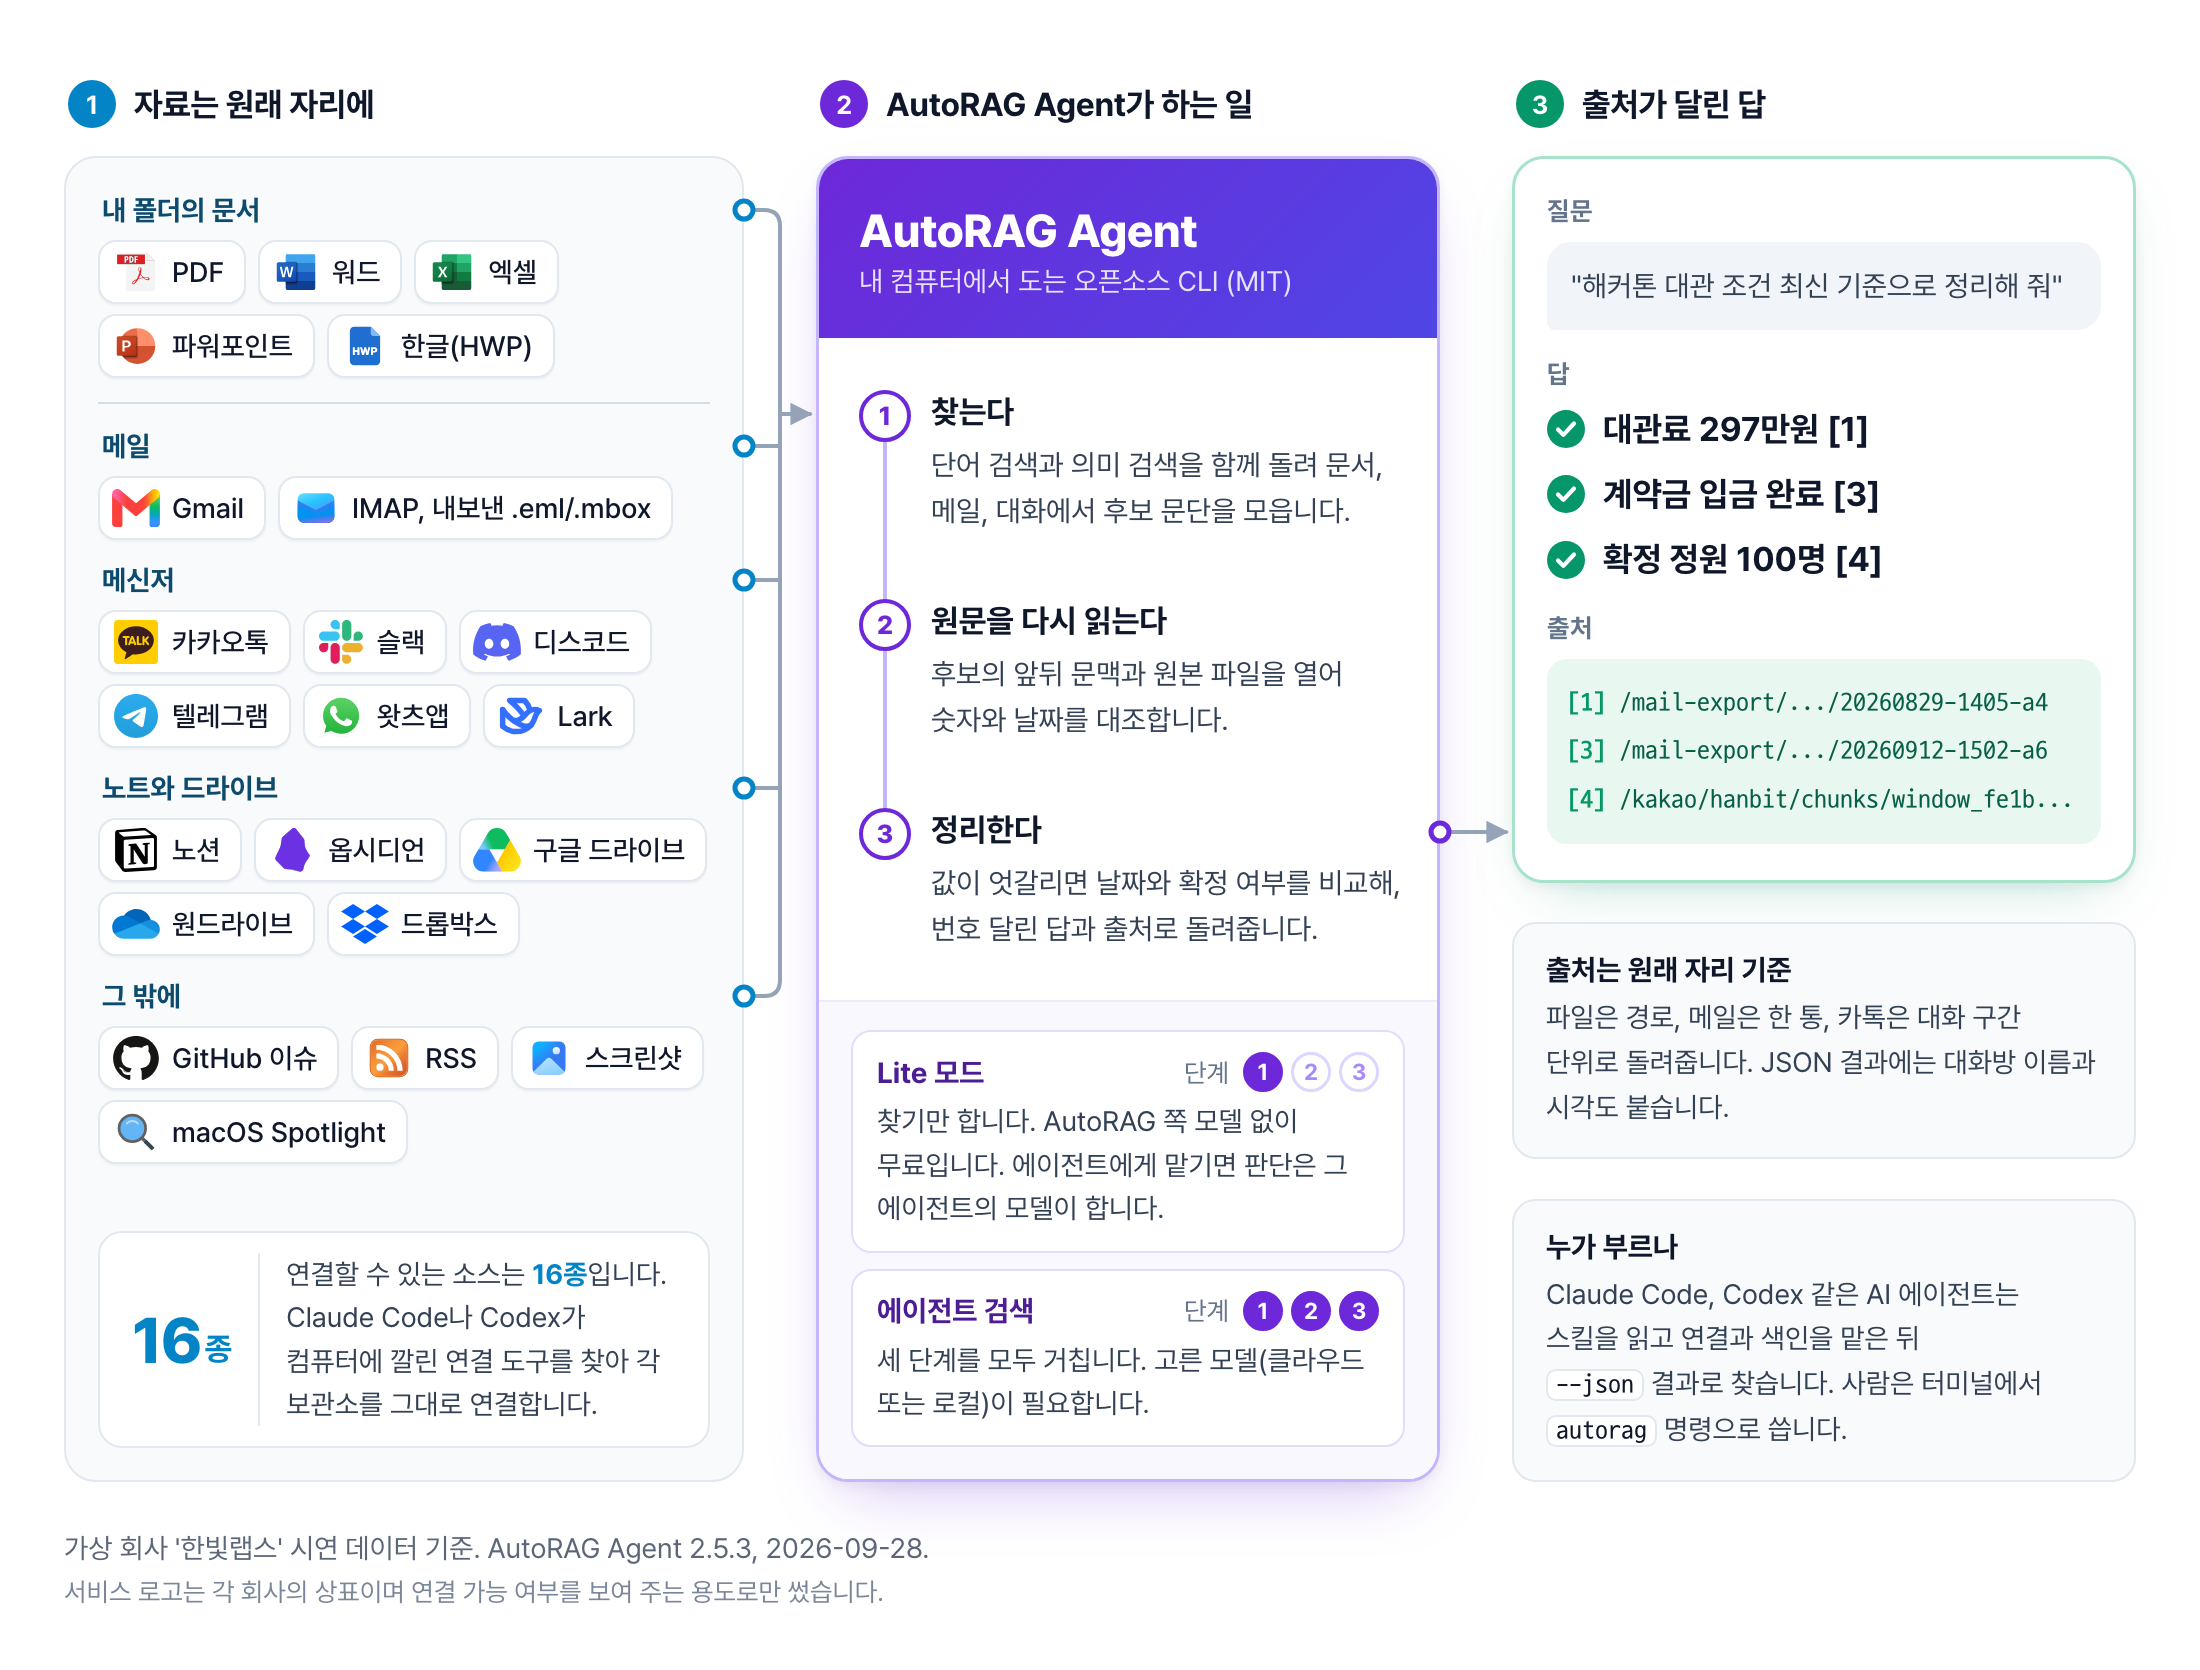
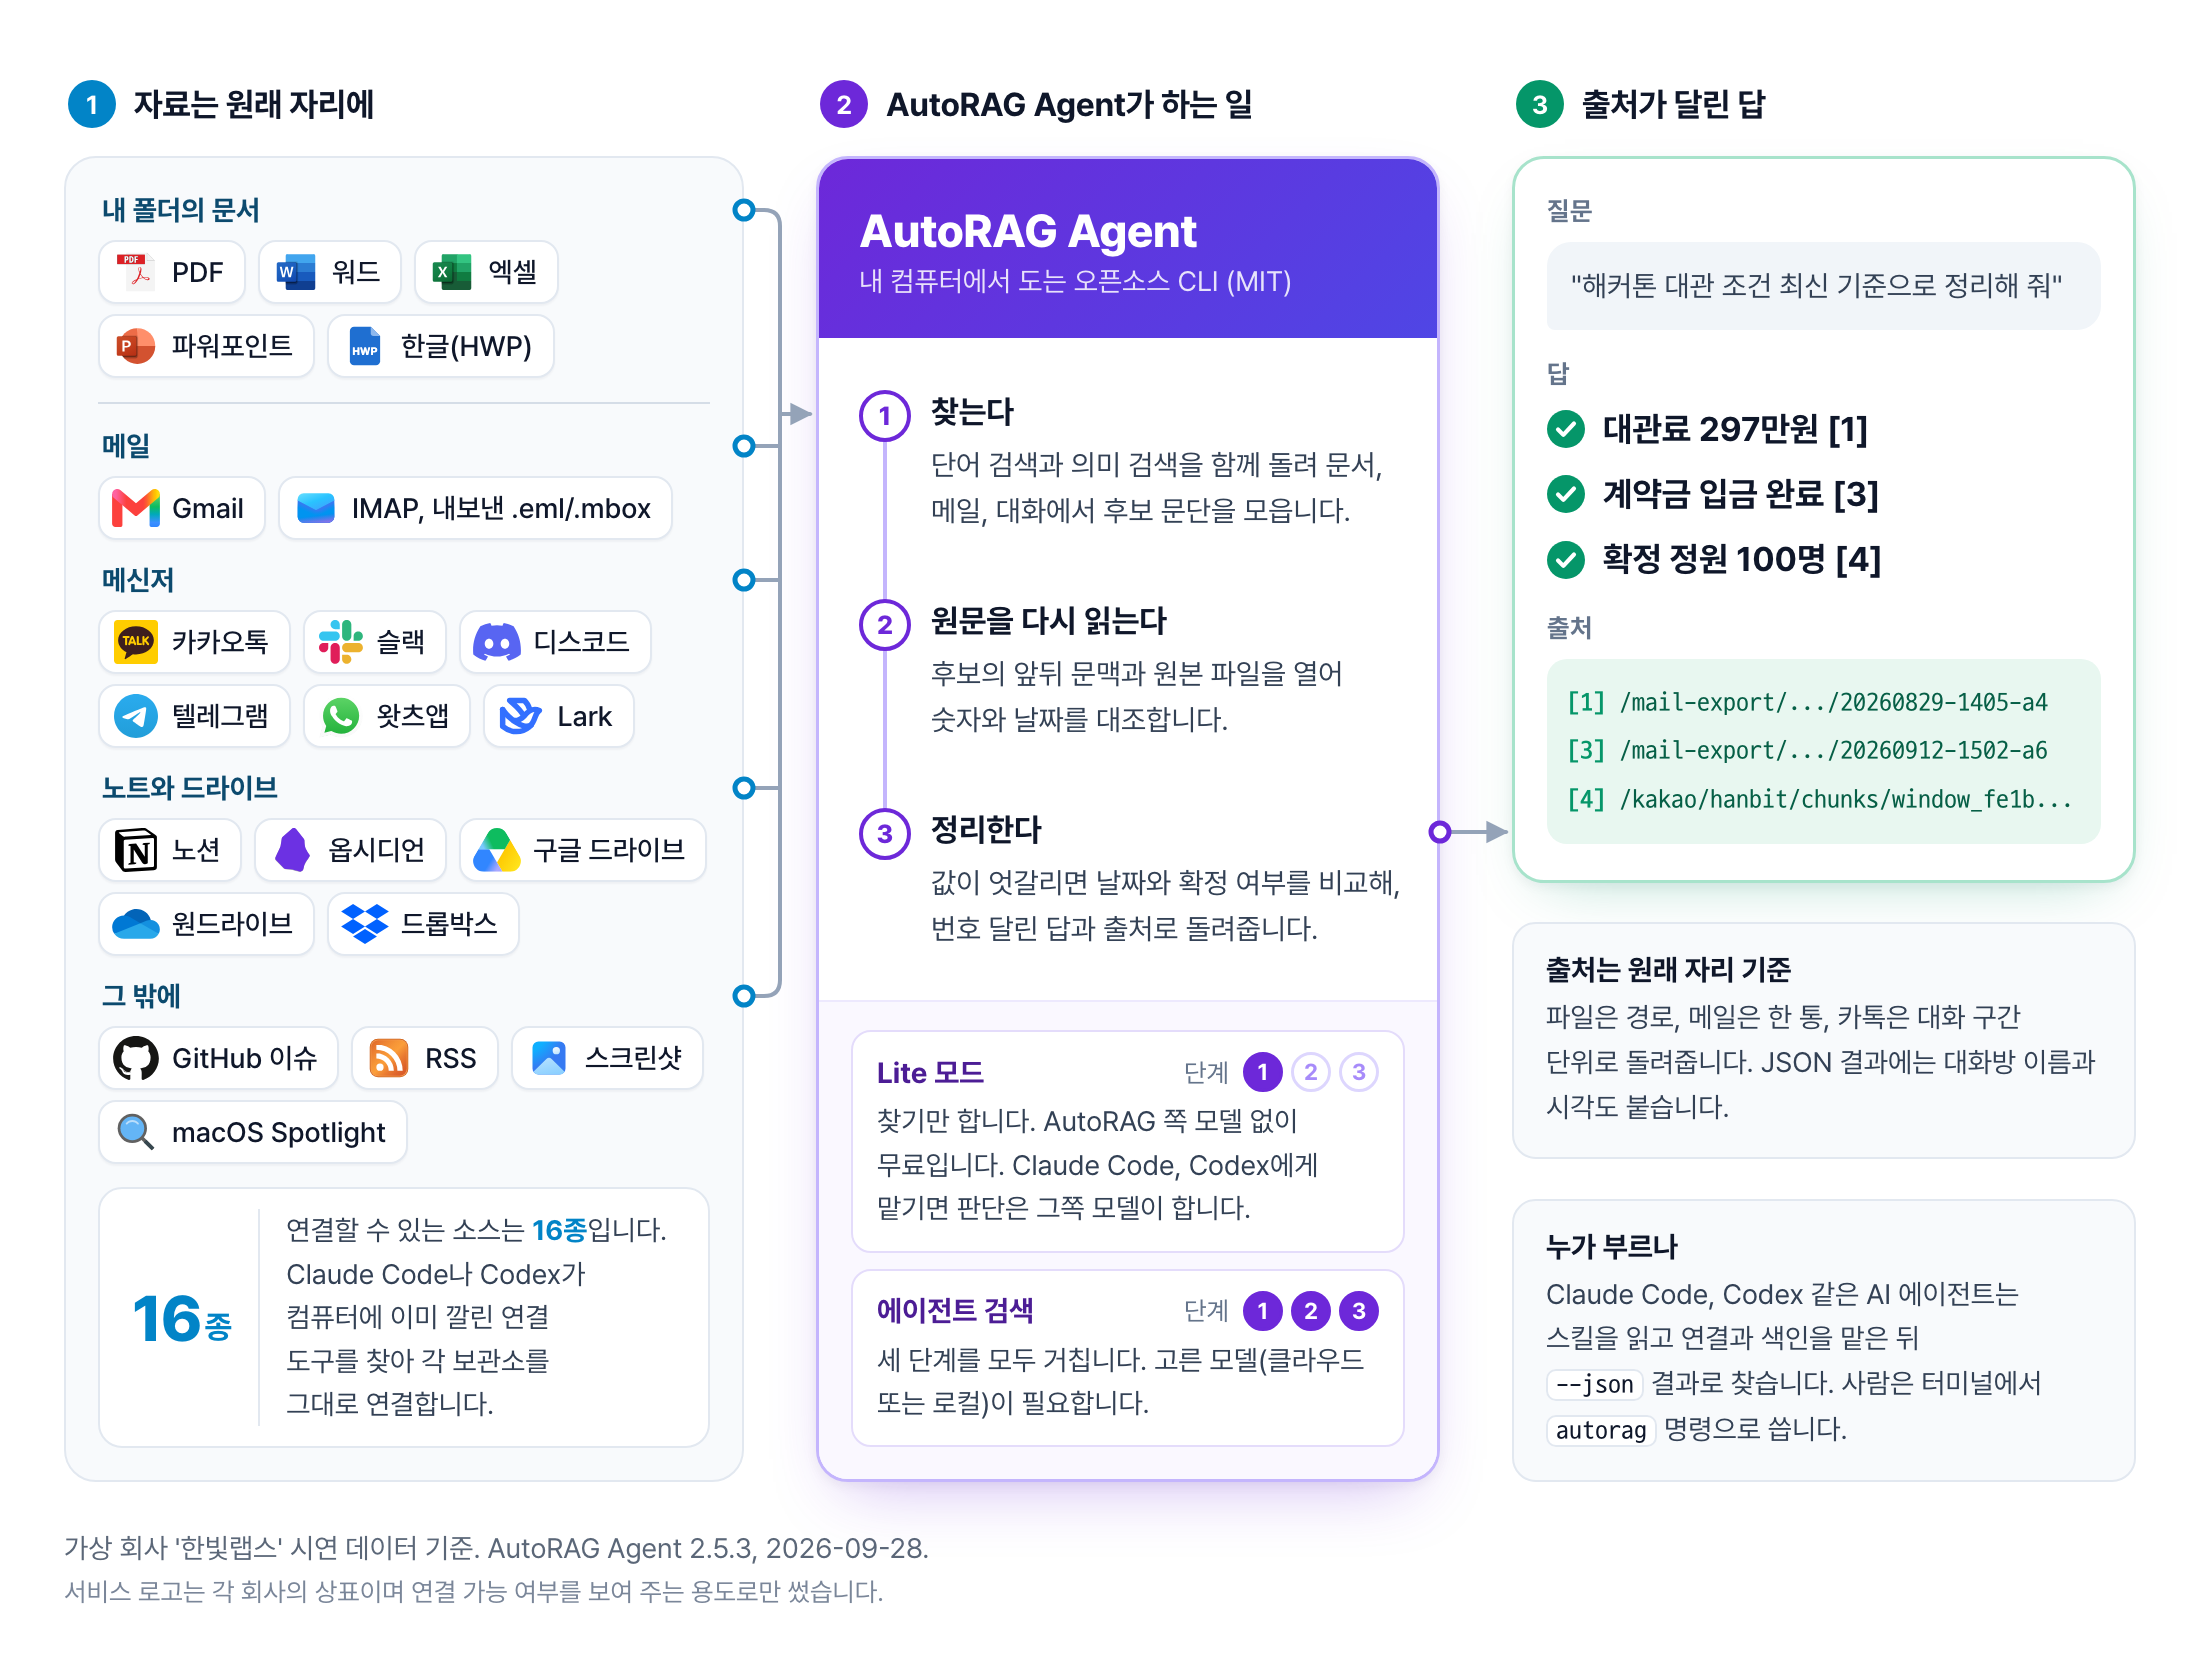
post: AutoRAG 글을 2.6.0 출시에 맞춰 고침
- 2.6.0에서 문서 파서가 kordoc으로 바뀌어 PDF용 Java가 필요 없어짐. 비교표, 아쉬운 점, 준비물에서 Java 삭제
- 저장소 캡처 설명에 2.6.0 출시와 화면, 수치가 2.5.3 기준임을 적음
- gpt-6-luna는 2.6.0이 쓰는 pi-ai 0.86.1 목록에도 없어 우회 설정 절은 유지
- 다이어그램 Lite 설명에서 맨 '에이전트'를 Claude Code, Codex로 바꾸고, 수정일을 2026-09-29로

Changed region(s): [[0.0618, 0.7162, 0.3091, 0.8719], [0.4018, 0.685, 0.6182, 0.7473]]

diff --git a/src/content/posts/autorag-agent-intro.md b/src/content/posts/autorag-agent-intro.md
@@ -2,7 +2,7 @@
 title: "자료를 옮기지 않고 찾아 주는 오픈소스 AI 사서, AutoRAG Agent"
 description: "문서 폴더, 메일, 카카오톡에 흩어진 자료를 한곳에 모으지 않아도 찾아서, 출처가 달린 답으로 돌려주는 오픈소스 AutoRAG Agent를 소개합니다. 실제 화면, 비슷한 서비스와의 차이, 명령어 없이 Claude Code에게 맡겨 시작하는 방법을 담았습니다."
 pubDatetime: 2026-09-28T14:19:00+09:00
-modDatetime: 2026-09-28T21:28:00+09:00
+modDatetime: 2026-09-29T20:15:00+09:00
 author: "안승원 (Aiden)"
 tags: ["autorag agent", "오토래그", "rag", "카카오톡 검색", "로컬 검색", "claude code", "오픈소스"]
 ogImage: ../../assets/images/autorag-agent-intro/00-cover.png
@@ -105,7 +105,7 @@ autorag search '부산 해커톤 대관 조건 최신 기준으로 정리해 줘
 | 항목 | Gemini Notebook(구 NotebookLM) | ChatGPT(파일, 프로젝트, 앱) | AutoRAG Agent |
 |---|---|---|---|
 | 자료를 두는 곳 | 노트북으로 가져옴 | 올린 파일은 ChatGPT 보관함에 저장, 연결한 앱은 그때그때 조회 | 원본은 제자리, 색인과 변환 사본은 내 컴퓨터(`.autorag/`)에 |
-| 시작하려면 | 구글 계정, 소스 추가 | 파일 올리기 또는 앱 로그인 | Node.js 24 이상, PDF용 Java 11 이상, 소스별 연결 도구 설치 |
+| 시작하려면 | 구글 계정, 소스 추가 | 파일 올리기 또는 앱 로그인 | Node.js 24 이상, 소스별 연결 도구 설치 |
 | 카카오톡, 한글(HWP) | 공식 문서에서 확인되지 않음 | 카톡 대화를 검색 소스로 쓰는 기능은 공식 문서에서 확인되지 않음 | 둘 다 지원(카톡은 Apple Silicon 맥) |
 | 출처 표시 | 답 안에 인용 | 인용과 발췌(회사 지식 모드) | 번호별로 원래 자리(파일 경로와 쪽수, 카톡 대화 구간, 메일) |
 | AI 코딩 에이전트에서 | 개인용 공식 경로 확인되지 않음 | 프로젝트 파일을 외부 에이전트가 부르는 공식 경로 확인되지 않음 | 명령줄(`--json`)과 에이전트 스킬 5종 |
@@ -120,11 +120,11 @@ autorag search '부산 해커톤 대관 조건 최신 기준으로 정리해 줘
 2. **한국 업무 환경의 자료까지 검색할 수 있습니다.** 카카오톡 대화와 한글(HWP, HWPX) 파일 검색은 비교한 두 서비스의 공식 문서에서 확인되지 않은 기능입니다.
 3. **두 웹 서비스와 달리 AI 코딩 에이전트가 바로 쓸 수 있습니다.** 명령 결과를 JSON으로 내주고, Claude Code나 Codex가 읽는 스킬 파일도 저장소에 함께 들어 있습니다. 모델 없이 찾기만 하는 Lite 모드가 있어서 판단은 Claude Code나 Codex가 이미 쓰는 모델에 맡길 수 있습니다. 두 서비스의 공식 문서에서는 2026-09-23 기준 이런 경로와 모델 없는 검색을 찾지 못했습니다.
 
-아쉬운 점도 있습니다. 웹 서비스보다 Node.js, PDF용 Java, 소스별 연결 도구처럼 준비할 것이 많습니다.
+아쉬운 점도 있습니다. 웹 서비스와 달리 Node.js를 설치해야 하고, 메일과 메신저는 소스별 연결 도구도 준비해야 합니다.
 
 ## 어디까지 연결되나
 
-연결할 소스를 직접 하나하나 고르지 않아도 됩니다. Claude Code나 Codex에게 AutoRAG 설정을 부탁하면, 저장소의 설치 안내(스킬)에 적힌 순서대로 진행합니다. 스킬은 에이전트에게 "이럴 때 이 명령을 이렇게 써라"를 알려 주는 설명서입니다.
+연결할 소스를 직접 하나하나 고르지 않아도 됩니다. Claude Code나 Codex에게 AutoRAG 설정을 부탁하면, 저장소의 설치 안내(스킬)에 적힌 순서대로 진행합니다. 스킬은 Claude Code 같은 AI 에이전트에게 "이럴 때 이 명령을 이렇게 써라"를 알려 주는 설명서입니다.
 
 1. 이 컴퓨터에 메일, 메신저 연결 도구가 깔려 있는지, 그 도구가 받아 둔 기록이 있는지 먼저 살핍니다. 연결 도구는 슬랙이나 카카오톡 같은 서비스의 기록을 내 컴퓨터로 받아 두는 별도 명령줄 프로그램입니다(예: 슬랙은 `slacrawl`, 카카오톡은 `lazykatok`).
 2. 준비된 소스는 묻지 않고 연결합니다. 예를 들어 슬랙과 디스코드 연결 도구가 깔려 있고 받아 둔 기록도 있으면 둘 다 알아서 설정합니다.
@@ -163,7 +163,7 @@ AutoRAG는 명령줄 도구지만 명령어를 외울 필요는 없습니다. Cl
 **준비물**
 
 - [Claude Code](https://code.claude.com/docs/ko/quickstart) 또는 [Codex](https://developers.openai.com/codex/cli)
-- [Node.js](https://nodejs.org/ko/download) 24 이상. PDF까지 읽으려면 Java 11 이상
+- [Node.js](https://nodejs.org/ko/download) 24 이상
 
 ### 1. 검색할 폴더에서 Claude Code를 열고 부탁합니다
 
@@ -246,7 +246,7 @@ autorag lite refresh
 autorag lite retrieve "찾고 싶은 내용"
 ```
 
-처음 한 번은 준비에 몇 분이 걸립니다. 파일 한 개짜리 새 폴더에서 첫 `refresh`가 약 3분(175초) 걸렸고, 그다음 `refresh`부터는 바뀐 파일만 다시 읽습니다.
+처음 한 번은 준비에 몇 분이 걸립니다. 2.5.3에서 파일 한 개짜리 새 폴더로 재 보니 첫 `refresh`가 약 3분(175초) 걸렸고, 그다음 `refresh`부터는 바뀐 파일만 다시 읽습니다.
 
 문서를 쪼개는 방법, 임베딩 모델, 벡터 DB를 직접 고르거나 설정할 필요가 없습니다. 임베딩도 API 키 없이 내 컴퓨터에서 계산합니다.
 
@@ -260,9 +260,9 @@ autorag search "질문"
 
 메일, 메신저 같은 소스는 설정 파일에 직접 적거나 Claude Code, Codex에게 연결을 맡기면 됩니다. 소스별 설정은 [연결 가능한 소스 설정 문서](https://github.com/Marker-Inc-Korea/AutoRAG/blob/main/docs/datasource-skills.md)에 있습니다.
 
-위 명령의 `gpt-5.6-luna`처럼 AutoRAG Agent 2.5.3의 기본 모델 목록에 있는 모델은 `--model-id`만으로 쓸 수 있습니다.
+위 명령의 `gpt-5.6-luna`처럼 AutoRAG Agent의 기본 모델 목록에 있는 모델은 `--model-id`만으로 쓸 수 있습니다.
 
-이 글의 시연처럼 `gpt-6-luna`를 쓰려면 한 단계가 더 필요합니다. 2.5.3의 목록에는 아직 `gpt-6-luna`가 없어서, `--model-id gpt-6-luna`만 주면 `autorag search`가 이런 오류를 내고 멈춥니다(2026-09-27 확인).
+이 글의 시연처럼 `gpt-6-luna`를 쓰려면 한 단계가 더 필요합니다. 기본 모델 목록에 아직 `gpt-6-luna`가 없어서, `--model-id gpt-6-luna`만 주면 `autorag search`가 이런 오류를 내고 멈춥니다(2.5.3, 2026-09-27 확인). 2026-09-29에 나온 2.6.0의 목록에도 아직 없습니다.
 
 ```text wrap
 Unknown configured model: openai/gpt-6-luna. Add baseUrl (and optional api/apiKeyEnv) for OpenAI-compatible endpoints, or use a pi-ai catalog model id.
@@ -296,7 +296,7 @@ AutoRAG Agent는 "그 얘기 어디서 했더라"를 찾는 데 드는 시간을
 - **질문과 소식**: 저장소 [Discussions](https://github.com/Marker-Inc-Korea/AutoRAG/discussions)에서 질문하고 릴리스 소식도 볼 수 있습니다
 
 ![GitHub의 Marker-Inc-Korea/AutoRAG 저장소 첫 화면. About 문구와 Releases의 AutoRAG v2.5.3 Latest가 초록 상자로 표시되어 있다](@/assets/images/autorag-agent-intro/11-github.png)
-*AutoRAG 저장소. 2026-09-23 캡처, 2.5.3이 최신 버전입니다(2026-09-28 재확인).*
+*AutoRAG 저장소. 2026-09-23 캡처 당시 최신은 2.5.3이었고, 2026-09-29에 2.6.0이 나왔습니다. 이 글의 화면과 수치는 2.5.3에서 확인했습니다.*
 
 ## 자주 묻는 질문
 
@@ -332,7 +332,7 @@ AutoRAG Agent는 "그 얘기 어디서 했더라"를 찾는 데 드는 시간을
 **갱신 이력**
 
 - 2026-09-28 최초 발행
-- 2026-09-28 비용과 연결 설명 보강. Claude Code, Codex에게 Lite 모드로 맡기면 AutoRAG 쪽 비용이 없다는 점, 이때 찾은 내용이 그 모델을 제공하는 회사에 전달된다는 점, Claude Code, Codex가 연결 도구를 찾아 연결하는 과정 추가. 관리 화면(`autorag ui`) 설명 삭제
+- 2026-09-29 비용과 연결 설명 보강. Claude Code, Codex에게 Lite 모드로 맡기면 AutoRAG 쪽 비용이 없다는 점, 이때 찾은 내용이 그 모델을 제공하는 회사에 전달된다는 점, Claude Code, Codex가 연결 도구를 찾아 연결하는 과정 추가. 관리 화면(`autorag ui`) 설명 삭제. 2.6.0 출시에 맞춰 PDF용 Java 요구 사항 삭제
 
 ---
 
